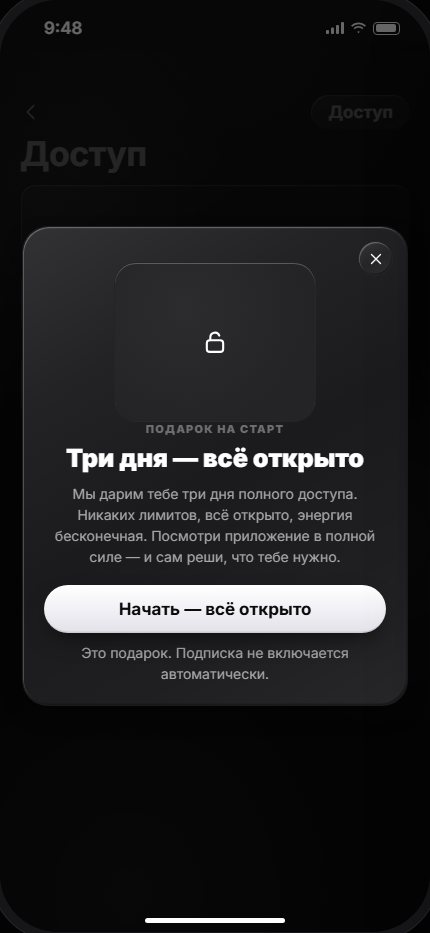
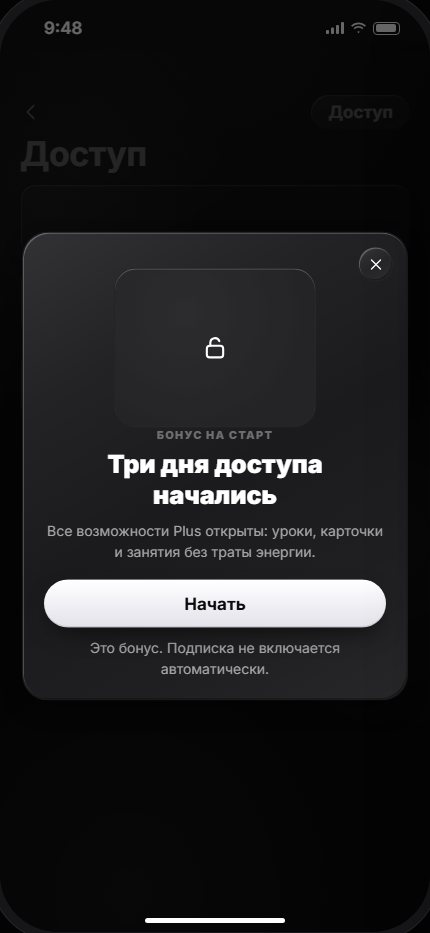
docs(design): «Бонус на старт» — тексты окна 1:1 из IntroFullAccessModal (было «Подарок»); пакет «минимум элементов» п.27 — слово владельца 14.10 «удалить вообще»
Governance-ID: TG-B10F35164CC3

diff --git a/docs/design/v2-app/overlays-more.html b/docs/design/v2-app/overlays-more.html
@@ -36,8 +36,9 @@ function collectible(id,mode){
  const secret=mode==='secret', complete=mode==='complete';
  return phoneOverlay(id,`${art('H')}<div class="om-kicker">Новая карточка!</div><div class="om-rarity">Обычная</div><div class="om-title">Hold your horses</div><div class="om-copy">Придержи коней</div>${complete||secret?`<div class="om-info"><strong>Сет собран!</strong>${secret?'Секретная карточка открыта: Top dog':''}</div>`:''}<div style="margin-top:16px">${cta('Класс!')}${complete||secret?cta('В коллекцию',true):''}</div>`,'modal','Коллекция','9:44');
 }
+// зачем (координатор 14.10): тексты окна 1:1 из components/IntroFullAccessModal.tsx («Бонус на старт», не «Подарок»). Слово владельца 14.10 «такого не должно быть вообще, удалить» — окно уйдёт из образца вслед за кодом.
 function fullAccess(id,ended=false){
- return phoneOverlay(id,`${close()}<div class="om-art" aria-hidden="true">${icon(ended?'check':'unlock','s28')}</div><div class="om-kicker">${ended?'Три дня позади':'Подарок на старт'}</div><div class="om-title">${ended?'Продолжай — на базовом или с Plus':'Три дня — всё открыто'}</div><div class="om-copy">${ended?'Всё, что ты выучил — остаётся с тобой. Базовый режим открыт всегда. Plus вернёт все планы, темы, разборы и практику без ограничений.':'Мы дарим тебе три дня полного доступа. Никаких лимитов, всё открыто, энергия бесконечная. Посмотри приложение в полной силе — и сам реши, что тебе нужно.'}</div><div style="margin-top:18px">${cta(ended?'Открыть полный доступ':'Начать — всё открыто')}${ended?cta('Остаться на базовом',true):'<div class="om-copy">Это подарок. Подписка не включается автоматически.</div>'}</div>`,'modal','Доступ','9:48');
+ return phoneOverlay(id,`${close()}<div class="om-art" aria-hidden="true">${icon(ended?'check':'unlock','s28')}</div><div class="om-kicker">${ended?'Три дня позади':'Бонус на старт'}</div><div class="om-title">${ended?'Три дня доступа завершились':'Три дня доступа начались'}</div><div class="om-copy">${ended?'Учебный прогресс остаётся. Базовый режим доступен. Актуальные преимущества Plus — в предложении магазина.':'Все возможности Plus открыты: уроки, карточки и занятия без траты энергии.'}</div><div style="margin-top:18px">${cta(ended?'Посмотреть предложение':'Начать')}${ended?cta('Остаться на базовом',true):'<div class="om-copy">Это бонус. Подписка не включается автоматически.</div>'}</div>`,'modal','Доступ','9:48');
 }
 function energy(id,state,home=false){
  const body=state==='plus'?`<div class="om-energy-main">${icon('bolt','s18')}<span>Энергия безлимитная</span></div>`:state==='full'?`<div class="om-energy-main">${icon('bolt','s18')}<span>5/5 · запас полон</span></div>`:`<div class="om-energy-main">${icon('bolt','s18')}<span>3/5 · 1 энергия каждые 10 мин</span></div><div class="om-countdown"><span>Через</span><b>06:24</b></div>`;

diff --git a/docs/design/v2-app/minimum-elements-proposal.html b/docs/design/v2-app/minimum-elements-proposal.html
@@ -287,13 +287,13 @@ figure:last-child figcaption { color: var(--good); }
     <p class="src">system.html · телефон 20</p>
   </article></div></section>
 <section id="g11"><h2>Противоречит решениям<small>1</small></h2><div class="grid"><article class="it" id="p27">
-    <header><span class="no">27</span><h3>«Подарок на старт — три дня всё открыто»</h3><span class="own">Координатор</span></header>
+    <header><span class="no">27</span><h3>«Бонус на старт» — 72 часа полного доступа</h3><span class="own">Координатор</span></header>
     <div class="pair">
-      <figure><img src="assets/minimum/27-now.jpg" alt="Сейчас: «Подарок на старт — три дня всё открыто»" loading="lazy"><figcaption>Сейчас — как в коде</figcaption></figure>
-      <figure><img src="assets/minimum/27-new.jpg" alt="Предлагаем: «Подарок на старт — три дня всё открыто»" loading="lazy"><figcaption>Предлагаем</figcaption></figure>
+      <figure><img src="assets/minimum/27-now.jpg" alt="Сейчас: «Бонус на старт» — 72 часа полного доступа" loading="lazy"><figcaption>Сейчас — как в коде</figcaption></figure>
+      <figure><img src="assets/minimum/27-new.jpg" alt="Предлагаем: «Бонус на старт» — 72 часа полного доступа" loading="lazy"><figcaption>Предлагаем</figcaption></figure>
     </div>
-    <p class="why">Подарков нет (D09) — окно убрать целиком; справа экран без окна.</p>
-    <p class="st rule">Противоречит решению D09 — окно убрать целиком.</p>
+    <p class="why">Окно и сам бонус: подарков и бонусов нет (D09). Справа — экран без окна.</p>
+    <p class="st rule">Слово владельца 14.10: «такого не должно быть вообще, удалить». Удаляется из кода и образцов (порядок — координатор); до этого образец повторяет код (IntroFullAccessModal).</p>
     <p class="src">overlays-more.html · телефон 4</p>
   </article></div></section>
 </div></body></html>
